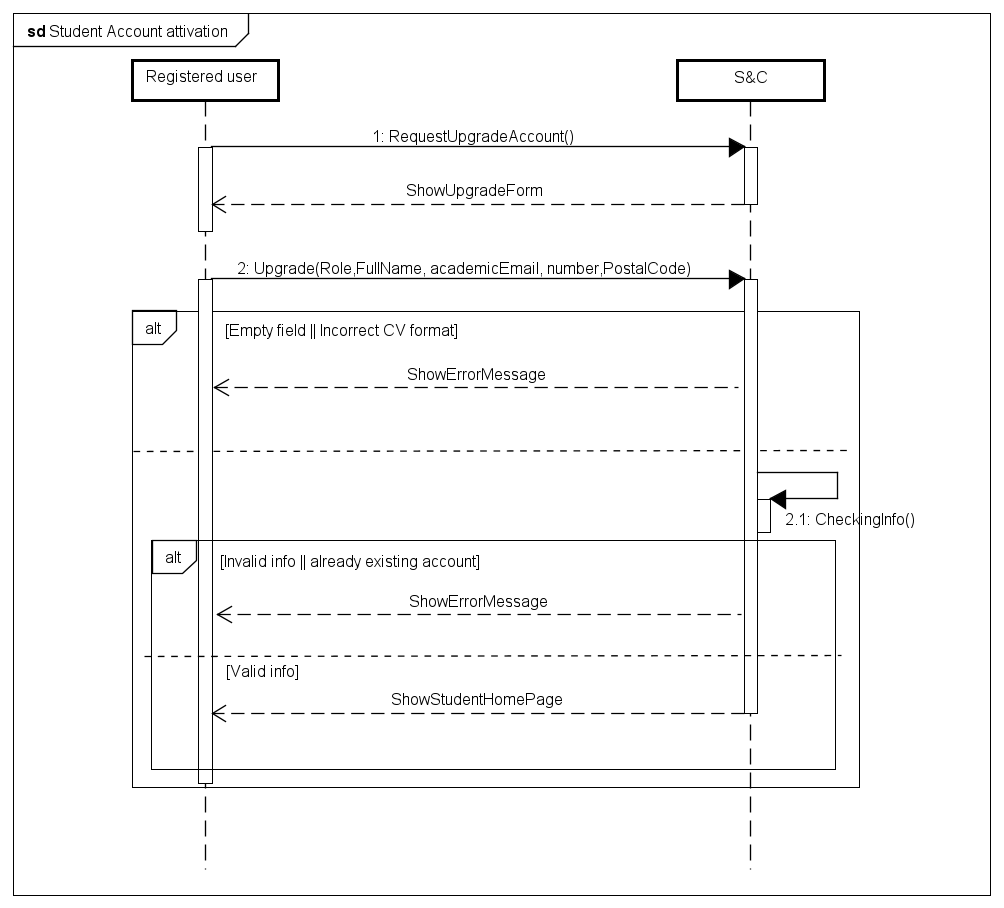
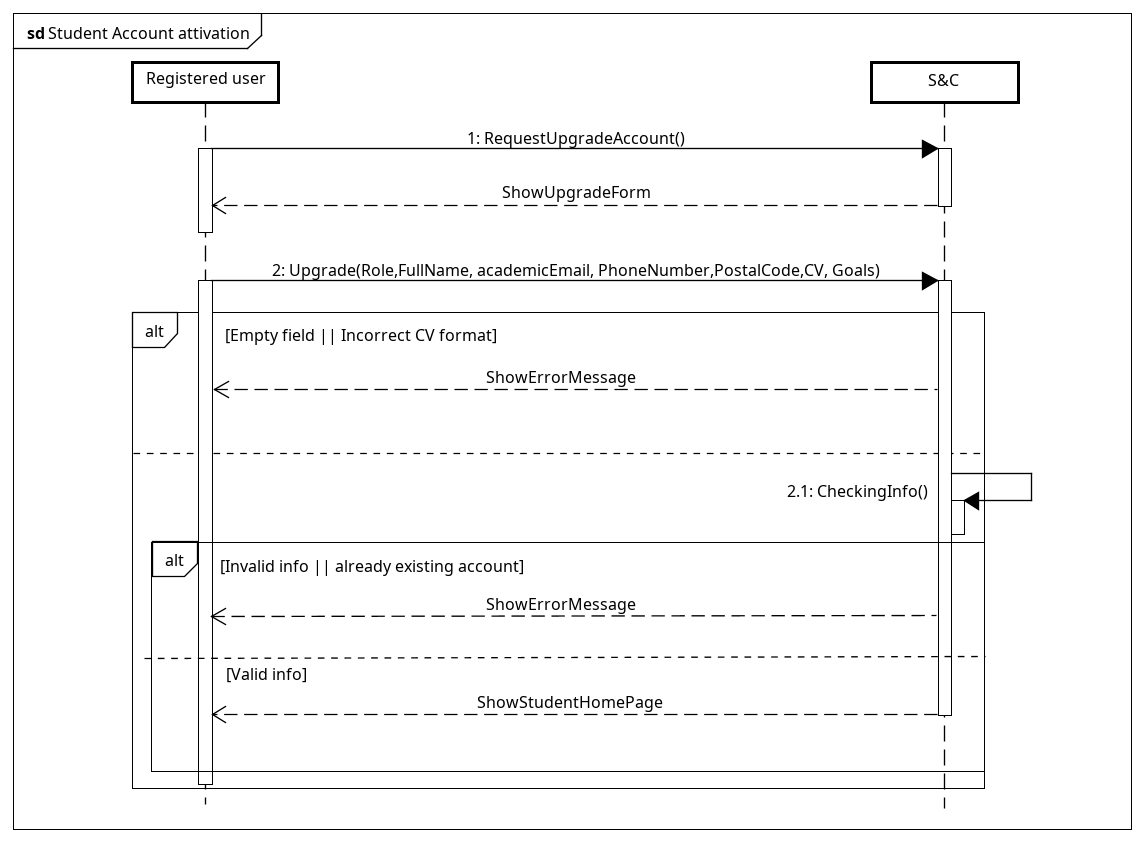
final RASD commit

diff --git a/RASD/Chapters/3_-_Specific_Requirements.tex b/RASD/Chapters/3_-_Specific_Requirements.tex
@@ -3,18 +3,17 @@
 
 \subsection{User Interfaces}
 \label{subsec:user_interfaces}%
-The platform will provide have different interfaces for each one of its three primary user groups: students, companies, and universities. Each interface will be role-specific in order to facilitate interactions. The student interface will include a dashboard summarizing recommended internships, application statuses, and interview schedules; there will be also a profile editor for updating academic details, skills, and preferences; every student will be provided a search interface with filters (e.g., location, skills, duration) to browse available internships. The company interface will feature tools to create, edit, and manage internship postings; a dashboard to view applications, candidates lists  and scheduled interviews. The university interface will instead include a dashboard displaying active internships, student feedback and complaint statuses; the university interface is equipped with tools to analyze trends and generate reports on internship outcomes as well as a complaint resolution module to address issues raised by students or companies.
+The platform will provide different interfaces for each one of its three primary user groups: students, companies, and universities. Each interface will be role-specific in order to facilitate interactions. The student interface will include a dashboard summarizing recommended internships, application statuses, and interview schedules; there will be also a profile editor for updating academic details, skills, and preferences; every student will be provided a search interface with filters (e.g., location, skills, duration) to browse available internships. The company interface will feature tools to create, edit, and manage internship postings; a dashboard to view applications, candidates lists  and scheduled interviews. The university interface will instead include a dashboard displaying active internships, student feedback and complaint statuses; the university interface is equipped with tools to analyze trends and generate reports on internship outcomes as well as a complaint resolution module to address issues raised by students or companies.
 
 \subsection{Hardware Interfaces}
 \label{subsec:hardware_interfaces}%
-The platform is a web app; this means that it does not require any specific hardware interface except for a computer or any other device with web browser.  
+S\&C system consists of both a mobile application and a Web App, making it highly accessible and versatile. So the platform only requires a smartphone or a computer with an internet connection. It does not require any specific hardware interface. This ensures that the system is easy to use and widely available.
 \subsection{Software Interfaces}
 \label{subsec:software_interfaces}%
 In order to work correctly, the system will need to integrate with a few software components; here they are listed in detail:
 \begin{itemize}
     \item \textbf{Database Systems:} To store user profiles, internship details, application records, and feedback securely.
     \item \textbf{Email and Notification APIs:} To send updates and reminders to users about critical events such as deadlines or feedback.
-    \item \textbf{Video Conferencing Tools:} For virtual interviews between students and companies.
     \item \textbf{Statistical Analysis Tools:} To extract meaningful data from user interactions and feedback.
 \end{itemize}
  
@@ -132,6 +131,10 @@ The platform will support secure communication protocols to facilitate data exch
         \hline
         \ch      & S\&C system periodically updates internship recommendations based on new data from Students and Companies.\\ 
         \hline
+        \ch      & The S\&C system provides Students suggestions on creating an effective CV, enhancing their chances of getting a match and receiving a positive evaluation during the company selection process.\\ 
+        \hline
+        \ch      & The S\&C system provides Companies suggestions on creating an effective post for an internship, enhancing their chances of getting a match.\\ 
+        \hline
         \caption{Requirements}
         \label{tab:worldph_tab}%
     \end{longtable}
@@ -142,7 +145,7 @@ The platform will support secure communication protocols to facilitate data exch
 
 \begin{figure}[H]
     \centering
-    \includegraphics[width=1\linewidth]{Images/use case diagrams/UNREGISTERED_USER.png}
+    \includegraphics[width=0.8\linewidth]{Images/use case diagrams/UNREGISTERED_USER.png}
     \caption{Unregistered user use case diagram}
     \label{fig:enter-label}
 \end{figure}
@@ -163,7 +166,7 @@ The platform will support secure communication protocols to facilitate data exch
 
 \begin{figure}[H]
     \centering
-    \includegraphics[width=1\linewidth]{Images/use case diagrams/UNIVERSITY.png}
+    \includegraphics[width=0.8\linewidth]{Images/use case diagrams/UNIVERSITY.png}
     \caption{University use case diagram}
     \label{fig:enter-label}
 \end{figure}
@@ -189,7 +192,7 @@ The platform will support secure communication protocols to facilitate data exch
         & 4.\ The user presses the "Sign Up" button to submit the registration form. \\ 
         & 5.\ The S\&C system sends a confirmation email to the provided email address. \\ 
         & 6.\ The user completes the registration by clicking the confirmation link in the email. \\ \hline 
-        Exit Condition & The user's account is successfully created, and they can log into the system. \\ \hline 
+        Exit Condition & The user's account is successfully created and they can log into the system. \\ \hline 
         Exceptions & 1.\ One or more mandatory fields are empty. \\ 
         & 2.\ An account with the same email already exists. \\ 
         & 3.\ The user has not checked the "Terms \& Conditions" or "Privacy Policy" boxes. \\ \hline 
@@ -241,21 +244,21 @@ The platform will support secure communication protocols to facilitate data exch
         \hline 
         Actor & Registered User \\ \hline 
         Entry Condition & The user wants to upgrade their account to a student account to unlock full access to the platform's features. \\ \hline 
-        Event Flow & 1.\ The user presses the "Unlock full experience" button on the homepage. \\ 
+        Event Flow & 1.\ The user presses the upgrade account button on the homepage. \\ 
         & 2.\ The user selects the "Student Account" option. \\  
         & 3.\ The user fills out all mandatory fields (name, surname, academic email, phone number, postal code). \\ 
         & 4.\ The user uploads their CV in PDF format. \\ 
         & 5.\ The user selects their internship goals from a provided checklist. \\ 
         & 6.\ The user presses the "Upgrade Account" button. \\ 
         & 7.\ The system validates the entered information and uploaded CV. \\ 
-        & 8.\ If the information is valid, the system sends a confirmation email to verify the academic email's validity. \\ 
+        & 8.\ If the information is valid, the system sends a confirmation email to verify the academic email address' validity. \\ 
         & 9.\ The user clicks on the confirmation link in the email to complete the activation process. \\ \hline 
         Exit Condition & The user's account is successfully upgraded to a student account, granting access to additional features. \\ \hline 
         Exceptions & 1.\ One or more mandatory fields are left empty. \\ 
         & 2.\ The uploaded CV is not in the correct PDF format. \\ 
         & 3.\ The CV file is missing during the upload process. \\ 
         & 4.\ The entered information fails validation checks. \\
-        & 5.\ An account with the provided academic email already exists. \\ \hline 
+        & 5.\ An account with the provided academic email address already exists. \\ \hline 
         \caption{User upgrades their account to a Student Account} 
         \label{tab:student_activation_uc} 
     \end{longtable} 
@@ -263,7 +266,7 @@ The platform will support secure communication protocols to facilitate data exch
 
 \begin{figure}[H]
     \centering
-    \includegraphics[width=1\linewidth]{Images/Sequence diagrams/Student account attivation.png}
+    \includegraphics[width=1\linewidth]{Images/Sequence diagrams/Student account Attivation.png}
     \caption{Student account activation sequence diagram}
     \label{fig:enter-label}
 \end{figure}
@@ -320,12 +323,14 @@ The platform will support secure communication protocols to facilitate data exch
     \begin{longtable}{ l p{0.8\linewidth} } 
         \hline
         Actor & Student \\ \hline
-        Entry condition & Student clicks on the internship post.\\ \hline
-        Event Flow       & 1.\ Student enters S\&C system logging in.\\ \hline
-        Exit condition & S\&C system redirects shows student their personal recommended internships. \\ \hline
+        Entry condition & The student wants to view all the details about an internship they find interesting.\\ \hline
+        Event Flow & 1.\ Student enters S\&C system logging in.\\
+        & 2.\ The student searches through the list of available internships, aiming to find one that matches their interests and preferences.\\
+        & 3.\ Student clicks on its box.\\ \hline
+        Exit condition & The S\&C system displays all the details of the selected internship. \\ \hline
         Exceptions  & System cannot elaborate available internships.
         \\ \hline
-        \caption{Student views offers.}
+        \caption{Student views offer details.}
         \label{tab:goals_tab}%
     \end{longtable}
 \end{center}
@@ -511,6 +516,8 @@ The platform will support secure communication protocols to facilitate data exch
     \label{fig:enter-label}
 \end{figure}
 
+\newpage
+
 \textbf{UC\cuc\  - Student or Company submits a complaint about an ongoing internship.}
 
 \begin{center} 
@@ -559,6 +566,8 @@ The platform will support secure communication protocols to facilitate data exch
     \label{fig:enter-label}
 \end{figure}
 
+\newpage
+
 \textbf{UC\cuc\  - University decides to interrupt an internship due to relevant complaints.}
 
 \begin{center} 
@@ -604,6 +613,7 @@ The platform will support secure communication protocols to facilitate data exch
         \item R29: S\&C system allows Companies to delete an internship's post.
         \item R30: S\&C system allows Companies to identify the most suitable students on the platform for their internship posts, even if the students have not applied.
         \item R47: S\&C system periodically updates internship recommendations based on new data from Students and Companies.
+        \item R49: S\&C system provides Students suggestions on creating an effective CV, enhancing their chances of getting a match and receiving a positive evaluation during the company selection process.
     \end{itemize}
     \item \textbf{G2 - Allows Students to look for internships based on their needs and find the most suitable for them, with the help of recommendation.}
     \begin{itemize}
@@ -620,8 +630,9 @@ The platform will support secure communication protocols to facilitate data exch
         \item R33: S\&C system allows Companies to receive notification when a new student with a high matching score has applied.
         \item R46: S\&C system improves recommendation accuracy by considering user feedback on previous internships.
         \item R47: S\&C system periodically updates internship recommendations based on new data from Students and Companies.
+        \item R48: S\&C system provides Students suggestions on creating an effective CV,enhancing their chances of getting a match and receiving a positive evaluation during the company selection process.
     \end{itemize}
-    \item \textbf{G3 - Supports selection process by helping manage interviews and also finalize the selections.}
+    \item \textbf{G3 - Supports selection process by helping to manage interviews and also finalize the selections.}
     \begin{itemize}
         \item R17: S\&C system allows Students to apply for an internship.
         \item R18: S\&C system allows Students to view sent applications.
@@ -629,6 +640,7 @@ The platform will support secure communication protocols to facilitate data exch
         \item R20: S\&C system allows Students to withdraw a sent application.
         \item R21: S\&C system allows Students to confirm their participation of a scheduled interview via a notification interface.
         \item R22: S\&C system allows Students to decline an interview offer via a notification interface.
+        \item R24: S\&C system allows Students to review the agreements of an internship before accepting.
         \item R31: S\&C system allows Companies to review the applications for an internship.
         \item R32: S\&C system allows Companies to view internship's applications ordered by the best match.
         \item R34: S\&C system allows Companies to propose a date to a student to schedule an interview.
@@ -640,11 +652,14 @@ The platform will support secure communication protocols to facilitate data exch
     \begin{itemize}
         \item R27: S\&C system allows Companies to post internship offers by providing detailed information.
         \item R46: S\&C system improves recommendation accuracy by considering user feedback on previous internships.
+        \item R49: S\&C system provides Companies suggestions on creating an effective post for an internship, enhancing their chances of getting a match.
     \end{itemize}
-    \item \textbf{G5 - Provides suggestions to students how to make their CVs more appealing for companies.}
+    \item \textbf{G5 - Provides suggestions to students ho w to make their CVs more appealing for companies.}
     \begin{itemize}
+        \item R3: S\&C system allows registered users to login.
+        \item R4: S\&C system allows registered users to edit their account details.
         \item R8: S\&C system allows registered users to verify their current academic status by validating their institutional email address.
-        \item R24: S\&C system allows Students to review the agreements of an internship before accepting.
+        \item R48: S\&C system provides Students suggestions on creating an effective CV,enhancing their chances of getting a match and receiving a positive evaluation during the company selection process.
     \end{itemize}
     \item \textbf{G6 - Allows stakeholders to monitor the progress of internships, report issues, and track outcomes.}
     \begin{itemize}
@@ -678,8 +693,8 @@ The platform will support secure communication protocols to facilitate data exch
         \hline
             R1  & \checkmark &   &   &   &   &   &   \\ \hline
             R2  & \checkmark &   &   &   &   &   &   \\ \hline
-            R3  &   &   &   &   &   &   & \checkmark \\ \hline
-            R4  &   & \checkmark &   &   &   &   &   \\ \hline
+            R3  &   &   &   &   &  \checkmark &   & \checkmark \\ \hline
+            R4  &   & \checkmark &   &   & \checkmark  &   &   \\ \hline
             R5  &   &   &   &   &   & \checkmark &   \\ \hline
             R6  & \checkmark &   &   &   &   &   &   \\ \hline
             R7  &   & \checkmark &   &   &   &   &   \\ \hline
@@ -699,7 +714,7 @@ The platform will support secure communication protocols to facilitate data exch
             R21 &   &   & \checkmark &   &   &   &   \\ \hline
             R22 &   &   & \checkmark &   &   &   &   \\ \hline
             R23 &   &   &   &   &   & \checkmark &   \\ \hline
-            R24 &   &   &   &   & \checkmark &   &   \\ \hline
+            R24 &   &   &  \checkmark &   &  &   &   \\ \hline
             R25 &   &   &   &   &   &   & \checkmark \\ \hline
             R26 &   &   &   &   &   & \checkmark &   \\ \hline
             R27 & \checkmark &   &   & \checkmark &   &   &   \\ \hline
@@ -723,6 +738,8 @@ The platform will support secure communication protocols to facilitate data exch
             R45 &   &   &   &   &   &   & \checkmark \\ \hline
             R46 &   & \checkmark &   & \checkmark &   &   &   \\ \hline
             R47 & \checkmark & \checkmark &   &   &   &   &   \\ \hline
+            R48 &   & \checkmark &   &   & \checkmark &   &   \\ \hline
+            R49 & \checkmark &  &   & \checkmark  &   &   &   \\ \hline
         \caption{ Traceability Matrix for Goals and Requirements}
     \end{longtable}
 \label{tab:mapping_requirements}
@@ -749,7 +766,7 @@ Here we have a short list of the hardware features that a user should have to us
  
 \subsection{Any Other Constraint}
 \label{subsec: hardware_limitations}%
-In a way, the system ought to give top priority to how user-friendly it is, providing interfaces that feel easy to learn for students, companies, and universities alike for things like uploading resumes, handling internships, and sorting out complaints. It must integrate efficiently with third-party tools (e.g., video conferencing softwares) and ensure compatibility with APIs that support future features (e.g. AI-based recommendations).  The architecture must be as scalable as the platform itself increases in the number of users. The platform should also be integrated with specific tools in order to make the feedback and complaint system robust.
+In a way, the system ought to give top priority to how user-friendly it is, providing interfaces that feel easy to learn for students, companies, and universities alike for things like uploading resumes, handling internships, and sorting out complaints. It ensures compatibility with APIs that support future features (e.g. AI-based recommendations).  The architecture must be as scalable as the platform itself increases in the number of users. The platform should also be integrated with specific tools in order to make the feedback and complaint system robust.
 \section{Software system attributes}
 \label{sec:performance_requirements}%
 
@@ -758,7 +775,7 @@ In a way, the system ought to give top priority to how user-friendly it is, prov
 The system has to be reliable since it will have to run without stopping for a long period of time. To ensure this feature the platform must have some sort of replication and consistency policy to avoid system crash. In addition to this it is a good practice to have offline backups of the system for recovering information in case of data loss. 
 \subsection{Availability}
 \label{subsec: availability}%
-The system must guarantee an availability of 99\% to support its users effectively, especially during peak usage periods like internship deadlines or videoconferencing sessions. To achieve this, single points of failure must be avoided and load balancing techniques should be used. 
+The system must guarantee an availability of 99\% to support its users effectively, especially during peak usage periods like internship deadlines. To achieve this, single points of failure must be avoided and load balancing techniques should be used. 
 \subsection{Security}
 \label{subsec: security }%
 User data, including personal information and CVs, must be protected using encryption methods for stored data and secure transmission protocols. The platform must implement measures to prevent unauthorized access and ensure the integrity and confidentiality of user information. 
@@ -767,4 +784,4 @@ User data, including personal information and CVs, must be protected using encry
 The system must be easily maintainable with well-documented code and routine testing procedures. At least 75\% of the code, excluding the UI, must have test coverage to facilitate debugging and future development and expansion of the platform. 
 \subsection{Portability}
 \label{subsec: portability}%
-As a web-based application, the platform must work correctly on various devices and browsers, such as Chrome, Firefox, and Safari. Compatibility with both desktop and mobile devices ensures usability for a wide range of users. 
+As a platform that includes both a web application and a mobile application, the system must function correctly across various devices and environments. The web application should be compatible with major browsers, such as Chrome, Firefox, and Safari, ensuring accessibility on desktop and mobile browsers alike. Additionally, the mobile application must provide a seamless user experience on both iOS and Android devices. This compatibility guarantees usability for a wide range of users, regardless of their chosen device or access method. 

diff --git a/RASD/Chapters/2_-_Overall_Description.tex b/RASD/Chapters/2_-_Overall_Description.tex
@@ -108,7 +108,7 @@ Jane is now in her final semester, actively seeking full-time roles. The platfor
 Here's the main functions of S\&C system:
 
 \paragraph{Register to the platform}
-The S\&C platform allows user to register, providing username and password. While registering to the system, users must first declare that they have read and understood the Privacy Statement. They are also required to accept the Terms and Conditions, which request consent for the acquisition and processing of their personal data for the purpose of using the platform's matching analysis.
+The S\&C platform allows user to register, providing username and password. While registering to the system, users must first declare that they have read and understood the Privacy Statement. They are also required to accept the Terms and Conditions, which request consent for the acquisition and processing of their personal data for the purpose of using the platform's matching analysis and statistics.
 
 \paragraph{Upgrade to Student account}
 The S\&C platform allows students to register. During the registration process, users are required to provide the following information:
@@ -116,11 +116,11 @@ The S\&C platform allows students to register. During the registration process, 
 \renewcommand{\arraystretch}{1}
 \begin{tabular}{|p{5cm}|p{5cm}|}
 \hline
-\textbf{Field}  & \textbf{Notes} \\
+\textbf{Field}  & \textbf{Note} \\
 \hline
 Full name &  \\
 \hline
-Password & Checking security standards \\
+Password & Security standards check\\
 \hline
 Academic email address & Checking an existing university domain \\
 \hline
@@ -167,7 +167,7 @@ Office phone number & Optional \\
 The actors of the application are the following:
 
 \begin{itemize}
-    \item \textbf{Registered User}:
+    \item \textbf{Registered User}: A single person registered in the platform before selecting their role (Student or company). This type of user has limited access to the platform: they can browse published internships to view basic information, but they cannot interact with them. To unlock advanced features, the user must complete the registration process by selecting their role.
     \item \textbf{Student}: A single person registered as a student on the platform. Their aim is to find internships aligned with their academic background, skills, and career goals. They need only an active account, an internet connection, and access to a digital CV.
     \item \textbf{Company}: An organization of people registered on the platform. Its goal is to publish internship opportunities, examine applications, and hire suitable candidates. It requires an active account, an internet connection, and major internship details.
     \item \textbf{University}: A career services representative with a passive role on the platform. Universities are contacted only if an internship goes wrong or complaints emerge from companies or students. Their task is to review the situation and, if necessary, interrupt the internship. They need access to relevant student and company data.

diff --git a/RASD/Chapters/6_-_References.tex b/RASD/Chapters/6_-_References.tex
@@ -10,12 +10,12 @@
 \begin{itemize}
     \item \href{https://github.com/MattiaBelfiore/BelfioreBenedettiBuccheri}{\textbf{GitHub}} for the project's version control.
     \item \textbf{AstahUML} for UML diagrams.
-    \item \textbf{bpmn.io} for state diagrans.
+    \item \textbf{draw.io} for use case diagrams.
+    \item \textbf{bpmn.io} for state diagrams.
     \item \textbf{Notion} for notes sharing.
     \item \textbf{OverLeaf} as collaborative online LaTex editor.
     \begin{itemize}
         \item PoliMi PhD Thesis Template on OverLeaf
     \end{itemize}
     \item \textbf{Alloy} for formal analysis.
-    \item \textbf{Visual Studio Code} as Alloy editor.
 \end{itemize}
